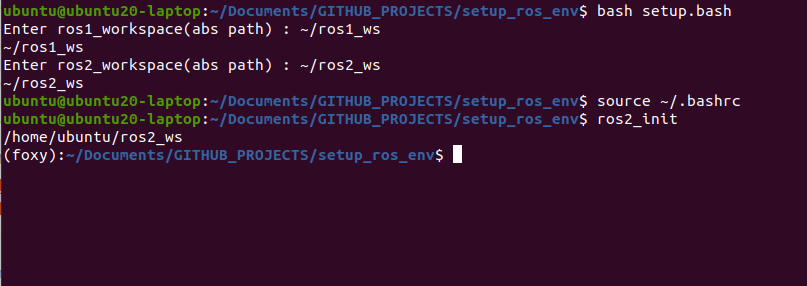
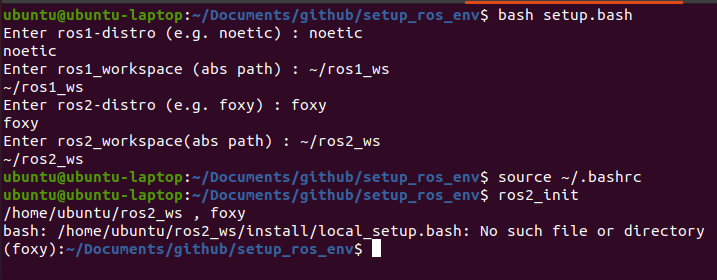
update readme

Changed region(s): [[0.0, 0.0, 1.0, 0.7429], [0.0, 0.7429, 0.9819, 0.9143]]

diff --git a/README.md b/README.md
@@ -11,8 +11,12 @@ $ cd ~
 $ git clone https://github.com/Ar-Ray-code/setup_ros_env.git
 $ cd setup_ros_env
 $ bash setup.bash
->> Enter ros1_workspace(abs path) : ~/ros1_ws
+>> Enter ros1-distro (e.g. noetic) : noetic
+>> noetic
+>> Enter ros1_workspace (abs path) : ~/ros1_ws
 >> ~/ros1_ws
+>> Enter ros2-distro (e.g. foxy) : foxy
+>> foxy
 >> Enter ros2_workspace(abs path) : ~/ros2_ws
 >> ~/ros2_ws
 ```
